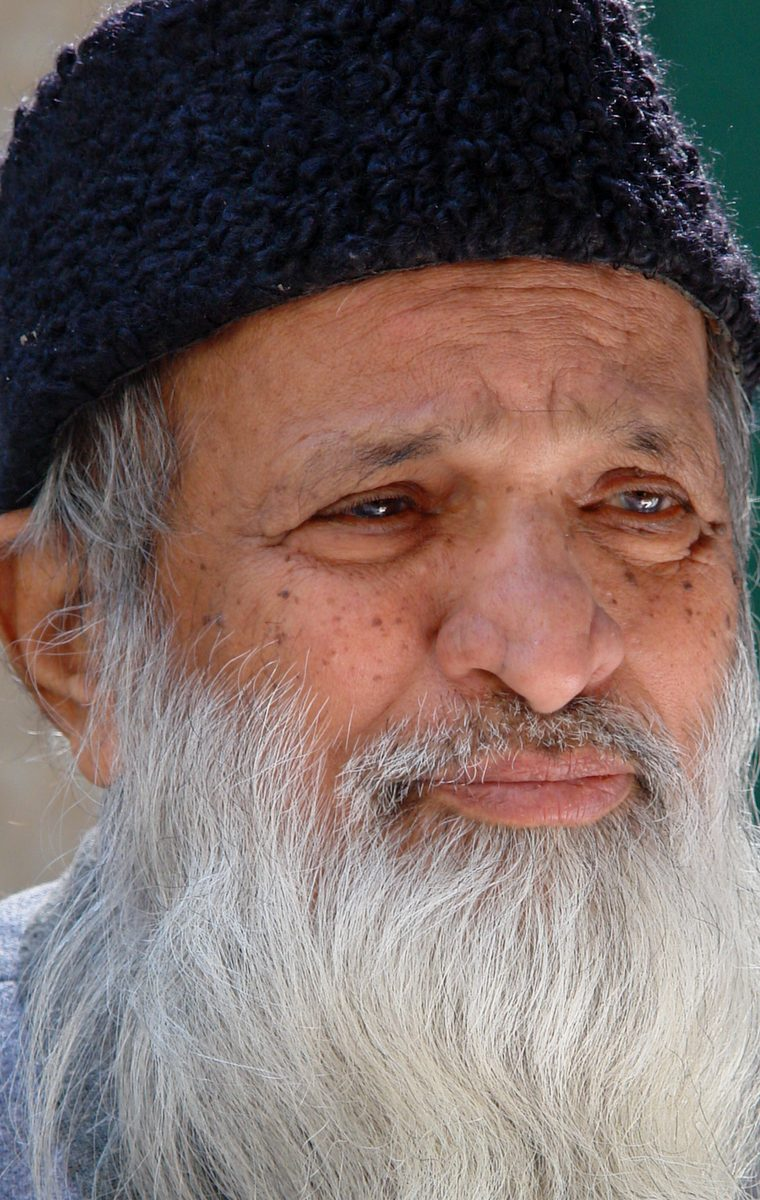
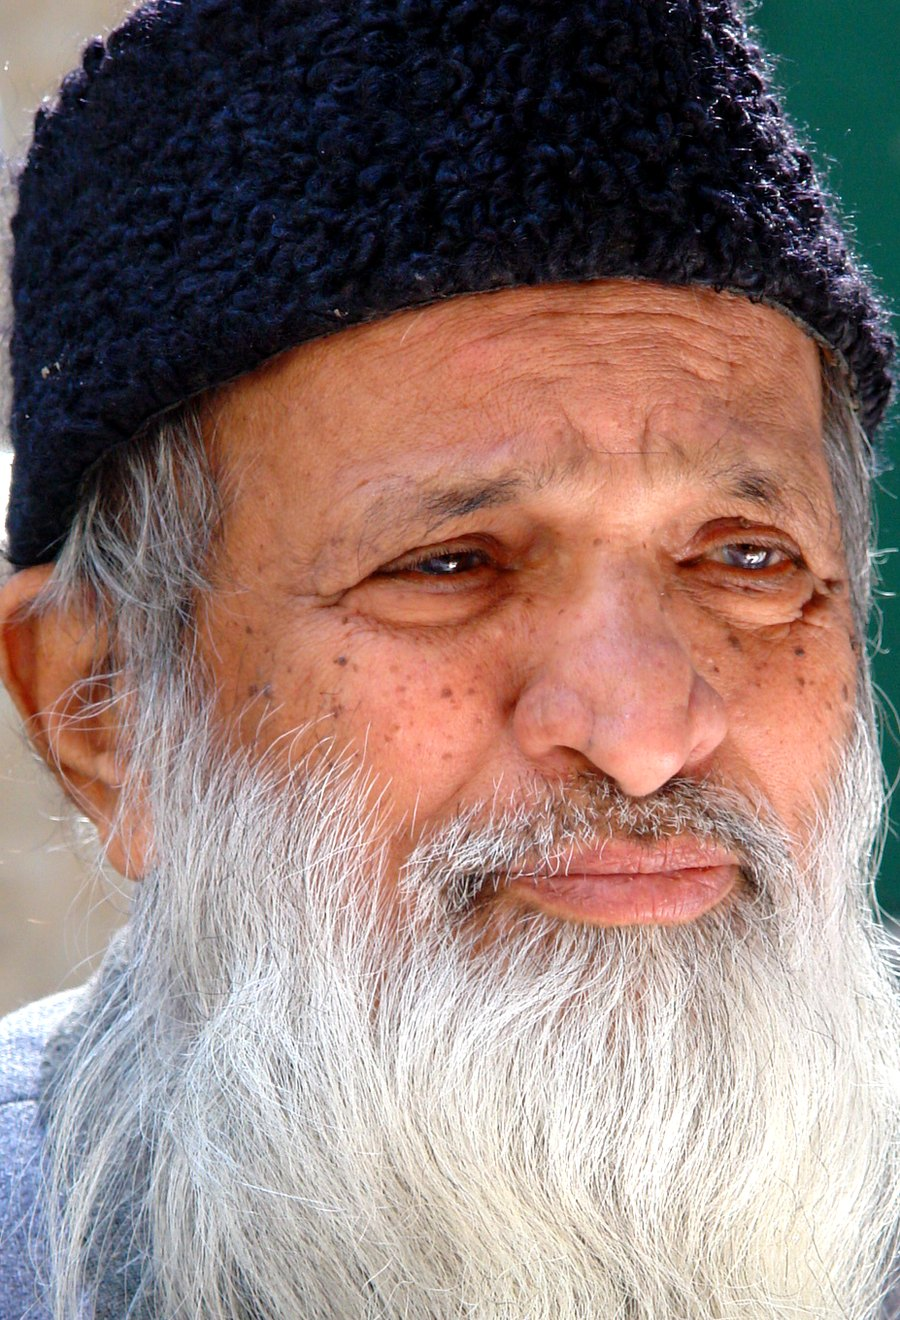
Show Abdul Sattar Edhi’s full face clearly on the homepage

diff --git a/css/home.css b/css/home.css
@@ -105,14 +105,16 @@ body.home a:focus-visible {
 }
 .scene-statue {
   position: absolute;
-  left: -1.5%;
-  top: 0;
-  width: 30%;
-  height: 86%;
+  left: 0;
+  top: 2%;
+  width: 28%;
+  height: 82%;
   object-fit: cover;
-  object-position: 48% 8%;
-  -webkit-mask-image: linear-gradient(to right, #000 56%, transparent 100%);
-  mask-image: linear-gradient(to right, #000 56%, transparent 100%);
+  object-position: 50% 12%;
+  z-index: 2;
+  filter: brightness(1.12) contrast(1.08) saturate(1.04);
+  -webkit-mask-image: linear-gradient(to right, #000 82%, transparent 100%);
+  mask-image: linear-gradient(to right, #000 82%, transparent 100%);
 }
 .scene-ruins {
   position: absolute;
@@ -177,11 +179,11 @@ body.home a:focus-visible {
   position: absolute;
   inset: 0;
   background: linear-gradient(90deg,
-    transparent 0 20%,
-    rgba(1, 38, 17, 0.55) 36%,
-    rgba(1, 38, 17, 0.78) 50%,
-    rgba(1, 38, 17, 0.5) 64%,
-    transparent 80% 100%);
+    transparent 0 30%,
+    rgba(1, 38, 17, 0.45) 42%,
+    rgba(1, 38, 17, 0.78) 52%,
+    rgba(1, 38, 17, 0.5) 66%,
+    transparent 82% 100%);
 }
 
 .atlas-hero-copy {
@@ -704,7 +706,7 @@ body.home .ad-slot { margin: 2rem auto 0; width: min(1280px, 94%); }
   .atlas-stats { grid-template-columns: repeat(3, 1fr); }
   .atlas-stat:nth-child(3) { border-right: 0; }
   .atlas-stat:nth-child(n + 4) { border-top: 1px solid rgba(201, 162, 39, 0.18); }
-  .scene-statue { width: 34%; }
+  .scene-statue { width: 36%; object-position: 50% 10%; }
   .scene-mountains { width: 48%; }
   .scene-flag { width: 42%; }
   .atlas-hero-copy-grid {
@@ -719,7 +721,7 @@ body.home .ad-slot { margin: 2rem auto 0; width: min(1280px, 94%); }
     height: 230px;
     inset: auto;
   }
-  .scene-statue { width: 48%; height: 100%; }
+  .scene-statue { width: 46%; height: 100%; object-position: 50% 12%; }
   .scene-ruins { width: 50%; height: 55%; bottom: 0; }
   .scene-mountains { width: 62%; height: 100%; }
   .scene-flag { width: 48%; height: 70%; top: -8%; }
@@ -744,7 +746,7 @@ body.home .ad-slot { margin: 2rem auto 0; width: min(1280px, 94%); }
 }
 @media (max-width: 560px) {
   .atlas-scene { height: 188px; }
-  .scene-statue { width: 50%; object-position: 62% 8%; }
+  .scene-statue { width: 52%; object-position: 50% 10%; }
   .scene-ruins { display: none; }
   .scene-flag { width: 56%; height: 64%; }
   .atlas-hero h1 { font-size: clamp(2.5rem, 11.2vw, 3.2rem); }

diff --git a/index.html b/index.html
@@ -20,7 +20,7 @@
   <link rel="preconnect" href="https://fonts.googleapis.com" />
   <link href="https://fonts.googleapis.com/css2?family=Noto+Nastaliq+Urdu:wght@400;600&family=Playfair+Display:ital,wght@0,600;0,700;1,400&family=Source+Sans+3:wght@400;600;700&display=swap" rel="stylesheet" />
   <link rel="stylesheet" href="css/style.css?v=4" />
-  <link rel="stylesheet" href="css/home.css?v=7" />
+  <link rel="stylesheet" href="css/home.css?v=8" />
   <script type="application/ld+json">
   {
     "@context": "https://schema.org",
@@ -49,7 +49,7 @@
   <section class="atlas-hero" aria-labelledby="atlas-welcome">
     <p class="visually-hidden">Editorial collage of Abdul Sattar Edhi, Indus Valley ruins, the Flag of Pakistan, northern mountains and Faisal Mosque.</p>
     <div class="atlas-scene" aria-hidden="true">
-      <img class="scene-statue" src="images/home/edhi.jpg" alt="Abdul Sattar Edhi" width="800" height="1200" fetchpriority="high" />
+      <img class="scene-statue" src="images/home/edhi.jpg" alt="Abdul Sattar Edhi" width="900" height="1320" fetchpriority="high" />
       <img class="scene-ruins" src="images/home/ruins.jpg" alt="" width="1400" height="933" />
       <img class="scene-mountains" src="images/home/mountains.jpg" alt="" width="1500" height="1000" fetchpriority="high" />
       <img class="scene-flag" src="images/home/flag-wave.jpg" alt="" width="1400" height="933" />
